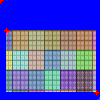
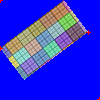
go.mobile/gl/glutil: take advantage of new degree of freedom in test
LGTM=nigeltao
R=nigeltao
CC=golang-codereviews
https://golang.org/cl/166030043

diff --git a/gl/glutil/glimage_test.go b/gl/glutil/glimage_test.go
@@ -74,10 +74,12 @@ func TestImage(t *testing.T) {
 	b.Min.X += 10
 	b.Max.Y /= 2
 
-	ptTopLeft := geom.Point{3, 15}
-	ptTopRight := geom.Point{48, 15}
-	ptBottomLeft := geom.Point{3, 46}
-	ptBottomRight := geom.Point{48, 46}
+	// All-integer right-angled triangles offsetting the
+	// box: 24-32-40, 12-16-20.
+	ptTopLeft := geom.Point{0, 24}
+	ptTopRight := geom.Point{32, 0}
+	ptBottomLeft := geom.Point{12, 24 + 16}
+	ptBottomRight := geom.Point{12 + 32, 16}
 	m.Draw(ptTopLeft, ptTopRight, ptBottomLeft, b)
 
 	// For unknown reasons, a windowless OpenGL context on darwin
@@ -158,7 +160,7 @@ func drawCross(m *image.RGBA, x, y int) {
 }
 
 func eqEpsilon(x, y uint8) bool {
-	const epsilon = 5
+	const epsilon = 8
 	return x-y < epsilon || y-x < epsilon
 }
 
@@ -172,13 +174,15 @@ func imageEq(m0, m1 *image.RGBA) bool {
 	if b0 != b1 {
 		return false
 	}
+	badPx := 0
 	for y := b0.Min.Y; y < b0.Max.Y; y++ {
 		for x := b0.Min.X; x < b0.Max.X; x++ {
 			c0, c1 := m0.At(x, y).(color.RGBA), m1.At(x, y).(color.RGBA)
 			if !colorEq(c0, c1) {
-				return false
+				badPx++
 			}
 		}
 	}
-	return true
+	badFrac := float64(badPx) / float64(b0.Dx()*b0.Dy())
+	return badFrac < 0.01
 }
